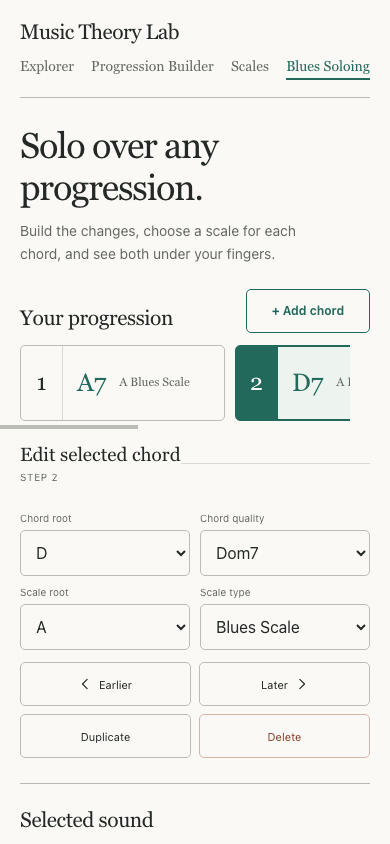
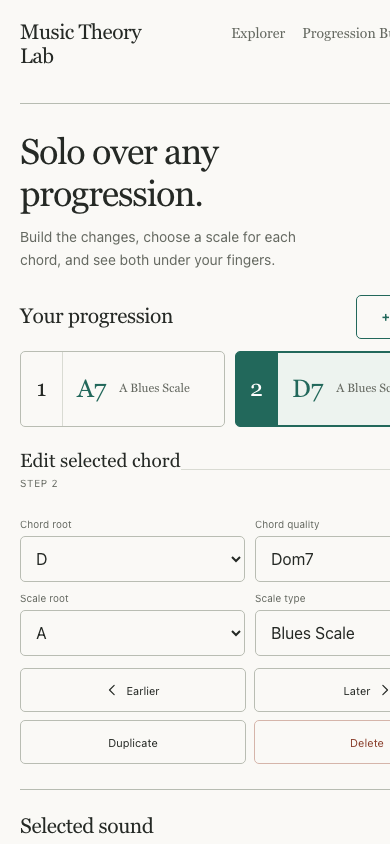
Refine chord scale marker hierarchy

diff --git a/src/components/SoloingFretboardView.tsx b/src/components/SoloingFretboardView.tsx
@@ -34,18 +34,18 @@ interface LegendMarkerProps {
 
 function LegendMarker({ kind }: LegendMarkerProps) {
   const common = { display: 'block', width: 15, height: 15, borderRadius: '50%' }
-  if (kind === 'scale') return <i aria-hidden="true" style={{ ...common, background: SCALE_COLOR }} />
+  if (kind === 'scale') return <i aria-hidden="true" style={{ ...common, background: PAPER_COLOR, border: `2px solid ${SCALE_COLOR}` }} />
   if (kind === 'current') return <i aria-hidden="true" style={{ ...common, background: CURRENT_COLOR }} />
   if (kind === 'next') return <i aria-hidden="true" style={{ ...common, background: PAPER_COLOR, border: `2px solid ${NEXT_COLOR}` }} />
-  return <i aria-hidden="true" style={{ ...common, background: PAPER_COLOR, border: `2px solid ${CURRENT_COLOR}` }} />
+  return <i aria-hidden="true" style={{ ...common, background: CURRENT_COLOR, border: `2px solid ${NEXT_COLOR}`, outline: `2px solid ${PAPER_COLOR}`, outlineOffset: -4 }} />
 }
 
 export function SoloingVisualLegend({ showNextChord = false }: { readonly showNextChord?: boolean }) {
   const items = [
-    { kind: 'scale' as const, label: 'Scale tone', detail: 'Black circle' },
+    { kind: 'scale' as const, label: 'Scale tone', detail: 'Black outline' },
     { kind: 'current' as const, label: 'Current chord', detail: 'Solid green' },
     ...(showNextChord ? [{ kind: 'next' as const, label: 'Next chord', detail: 'Orange outline' }] : []),
-    { kind: 'outside' as const, label: 'Outside scale', detail: 'Green outline' },
+    { kind: 'outside' as const, label: 'Outside scale', detail: 'Green + orange ring' },
   ]
   return <div className="transition-legend" aria-label="Soloing visualization legend">
     {items.map(item => <span key={item.kind}>
@@ -96,7 +96,7 @@ export function SoloingFretboardView({
     >
       <title id={titleId}>{displayNote(currentChord.name)} chord tones over {displayNote(scale.name)} on guitar</title>
       <desc id={descriptionId}>
-        High E is at the top and low E is at the bottom. Frets {model.fretStart} through {model.fretEnd}. Black circles are selected-scale tones, solid green markers are current-chord tones inside the scale, and green outlines are current-chord tones outside the selected scale. {showNextChord && nextChord ? `Orange outlines show tones in the next chord, ${displayNote(nextChord.name)}; a green marker with an orange outline is shared by both chords.` : 'The next-chord overlay is off.'} Labels show {labelMode === 'notes' ? 'note names' : 'degrees'}. {visiblePositions.map(position => `String ${position.string} fret ${position.fret}: ${displayNote(position.pitchClass.name)}, ${spokenRole(position, currentChord, nextChord, showNextChord)}`).join('; ')}.
+        High E is at the top and low E is at the bottom. Frets {model.fretStart} through {model.fretEnd}. White circles with black borders are selected-scale tones outside the current chord. Solid green markers are current-chord tones. An orange ring around a green marker means that chord tone falls outside the selected scale. {showNextChord && nextChord ? `Orange outlines also show tones in the next chord, ${displayNote(nextChord.name)}.` : 'The next-chord overlay is off.'} Labels show {labelMode === 'notes' ? 'note names' : 'degrees'}. {visiblePositions.map(position => `String ${position.string} fret ${position.fret}: ${displayNote(position.pitchClass.name)}, ${spokenRole(position, currentChord, nextChord, showNextChord)}`).join('; ')}.
       </desc>
 
       <rect x={nut} y="46" width={end - nut} height="180" className="transition-neck" fill="#f3f1eb" />
@@ -126,7 +126,7 @@ export function SoloingFretboardView({
         const isNext = showNextChord && Boolean(position.nextChordTone)
         const isScale = Boolean(position.scaleTone)
         const isCurrentOutsideScale = isCurrent && !isScale
-        const isFilled = isScale || (isCurrent && !isCurrentOutsideScale)
+        const hasOrangeRing = isCurrentOutsideScale || isNext
         const label = markerLabel(position, labelMode, showNextChord)
         const x = fretX(position.fret)
         const y = stringY(position.string)
@@ -135,11 +135,11 @@ export function SoloingFretboardView({
           <circle
             className="transition-marker"
             r={isCurrent ? 14 : 12}
-            fill={isCurrent && !isCurrentOutsideScale ? CURRENT_COLOR : isScale ? SCALE_COLOR : PAPER_COLOR}
-            stroke={isCurrentOutsideScale ? CURRENT_COLOR : isFilled ? PAPER_COLOR : NEXT_COLOR}
-            strokeWidth={isCurrentOutsideScale ? 2.8 : 2}
+            fill={isCurrent ? CURRENT_COLOR : PAPER_COLOR}
+            stroke={isCurrent ? CURRENT_COLOR : isScale ? SCALE_COLOR : NEXT_COLOR}
+            strokeWidth="2.2"
           />
-          {isNext && <circle
+          {hasOrangeRing && <circle
             r="17"
             fill="none"
             stroke={NEXT_COLOR}
@@ -149,7 +149,7 @@ export function SoloingFretboardView({
             textAnchor="middle"
             dominantBaseline="central"
             className="transition-label"
-            fill={isFilled ? '#fff' : isCurrentOutsideScale ? CURRENT_COLOR : NEXT_COLOR}
+            fill={isCurrent ? '#fff' : isScale ? SCALE_COLOR : NEXT_COLOR}
             fontSize="10"
             fontWeight="700"
           >{label}</text>

diff --git a/src/components/SoloingStaffView.tsx b/src/components/SoloingStaffView.tsx
@@ -101,13 +101,12 @@ export default function SoloingStaffView({ model, showNextChord = false }: Soloi
 
       const notes = visibleTones.map(tone => {
         const note = new StaveNote({ keys: [vexKey(tone)], duration: 'q' })
-        const isCurrentOutsideScale = tone.isCurrentChordTone && tone.isOutsideScale
         const isNextOnlyOutsideScale = !tone.isCurrentChordTone && tone.isNextChordTone && tone.isOutsideScale
         const color = tone.isCurrentChordTone ? CURRENT_COLOR : isNextOnlyOutsideScale ? NEXT_COLOR : SCALE_COLOR
         note.setKeyStyle(0, {
-          fillStyle: isCurrentOutsideScale || isNextOnlyOutsideScale ? PAPER_COLOR : color,
+          fillStyle: isNextOnlyOutsideScale ? PAPER_COLOR : color,
           strokeStyle: color,
-          lineWidth: isCurrentOutsideScale || isNextOnlyOutsideScale ? 2.2 : 1.4,
+          lineWidth: isNextOnlyOutsideScale ? 2.2 : 1.4,
         })
         return note
       })
@@ -130,10 +129,11 @@ export default function SoloingStaffView({ model, showNextChord = false }: Soloi
         const x = note.getNoteHeadBeginX() + 4
         const y = note.getYs()[0]
 
-        // An orange outline means the pitch is available in the next chord.
-        if (showNextChord && tone.isNextChordTone) appendRing(svg, x, y, 11, NEXT_COLOR)
-        // A green outline flags a current-chord tone that the selected scale omits.
-        if (tone.isCurrentChordTone && tone.isOutsideScale) appendRing(svg, x, y, 14, CURRENT_COLOR)
+        // Orange rings flag either an out-of-scale current chord tone or a
+        // pitch available in the next chord. Draw only one ring when both apply.
+        if ((tone.isCurrentChordTone && tone.isOutsideScale) || (showNextChord && tone.isNextChordTone)) {
+          appendRing(svg, x, y, 12, NEXT_COLOR)
+        }
 
         appendText(svg, x, 189, displayNote(toneDegree(tone)), {
           color: tone.isCurrentChordTone ? CURRENT_COLOR : tone.isOutsideScale ? NEXT_COLOR : SCALE_COLOR,
@@ -195,7 +195,7 @@ export default function SoloingStaffView({ model, showNextChord = false }: Soloi
   const nextDescription = showNextChord && model.nextChord
     ? ` Orange outlines mark tones in the next chord, ${displayNote(model.nextChord.name)}.`
     : ''
-  const description = `${displayNote(model.scale.name)}, ascending from tonic to tonic. Black notes belong to the selected scale. Solid green notes belong to the current chord, ${displayNote(model.currentChord.name)}; green outlines mark its tones outside the selected scale.${nextDescription} ${visibleTones.map(tone => describeTone(tone, showNextChord)).join('; ')}.`
+  const description = `${displayNote(model.scale.name)}, ascending from tonic to tonic. Black notes belong to the selected scale. Solid green notes belong to the current chord, ${displayNote(model.currentChord.name)}; an orange ring around a green note marks a current-chord tone outside the selected scale.${nextDescription} ${visibleTones.map(tone => describeTone(tone, showNextChord)).join('; ')}.`
 
   return <div
     className="blues-staff-scroll scale-staff-scroll"

diff --git a/docs/design/blues-progression-v2-verification.md b/docs/design/blues-progression-v2-verification.md
@@ -11,7 +11,7 @@ This pass supersedes the fixed 12-bar Blues Soloing design. It implements the co
 | Editor | Chord root/type plus independent scale root/type | Four direct selects with the requested six qualities and seven scales |
 | Current sound | Current and next harmony side by side | Live summary with a wrapping immediate-next chord |
 | Staff | Scale from tonic to tonic with chord emphasis | VexFlow notation: scale tones, current chord tones, and separated out-of-scale chord tones |
-| Fretboard | One legible full-neck map | Standard tuning, frets 0–22, local horizontal scroll, Notes/Degrees labels; black scale tones, green chord tones, and green-outlined outside tones |
+| Fretboard | One legible full-neck map | Standard tuning, frets 0–22, local horizontal scroll, Notes/Degrees labels; black-outlined scale tones with readable labels, solid-green chord tones, and orange-ringed out-of-scale chord tones |
 | Overlay | Optional look-ahead | Next-chord toggle adds orange outlines on both staff and fretboard |
 | Responsive | Compact mobile controls and locally scrolling diagrams | Verified at 390 × 844 with no document-level horizontal overflow |
 

diff --git a/docs/design/blues-progression-v2-spec.md b/docs/design/blues-progression-v2-spec.md
@@ -28,9 +28,9 @@ Mobile concept: `blues-progression-mobile-v2.png`
 - Background: warm paper `#faf9f6`.
 - Text: ink `#252925`, muted `#656961`.
 - Lines: `#d9dbd3` with stronger section rules where hierarchy needs them.
-- Selected-scale tone: solid ink `#252925`.
+- Selected-scale tone outside the current chord: paper fill with an ink `#252925` outline and ink label.
 - Current chord tone inside the scale: solid green `#22685b`.
-- Current chord tone outside the selected scale: paper fill with a green outline.
+- Current chord tone outside the selected scale: solid green `#22685b` with an orange outer ring.
 - Next chord: orange outline; shared current/next tone: green fill with an orange outer ring.
 - Display type uses Georgia; UI controls use the system sans-serif stack.
 - Open rails and bands are preferred to nested cards. Controls retain 5px radii and at least 44px touch targets.
